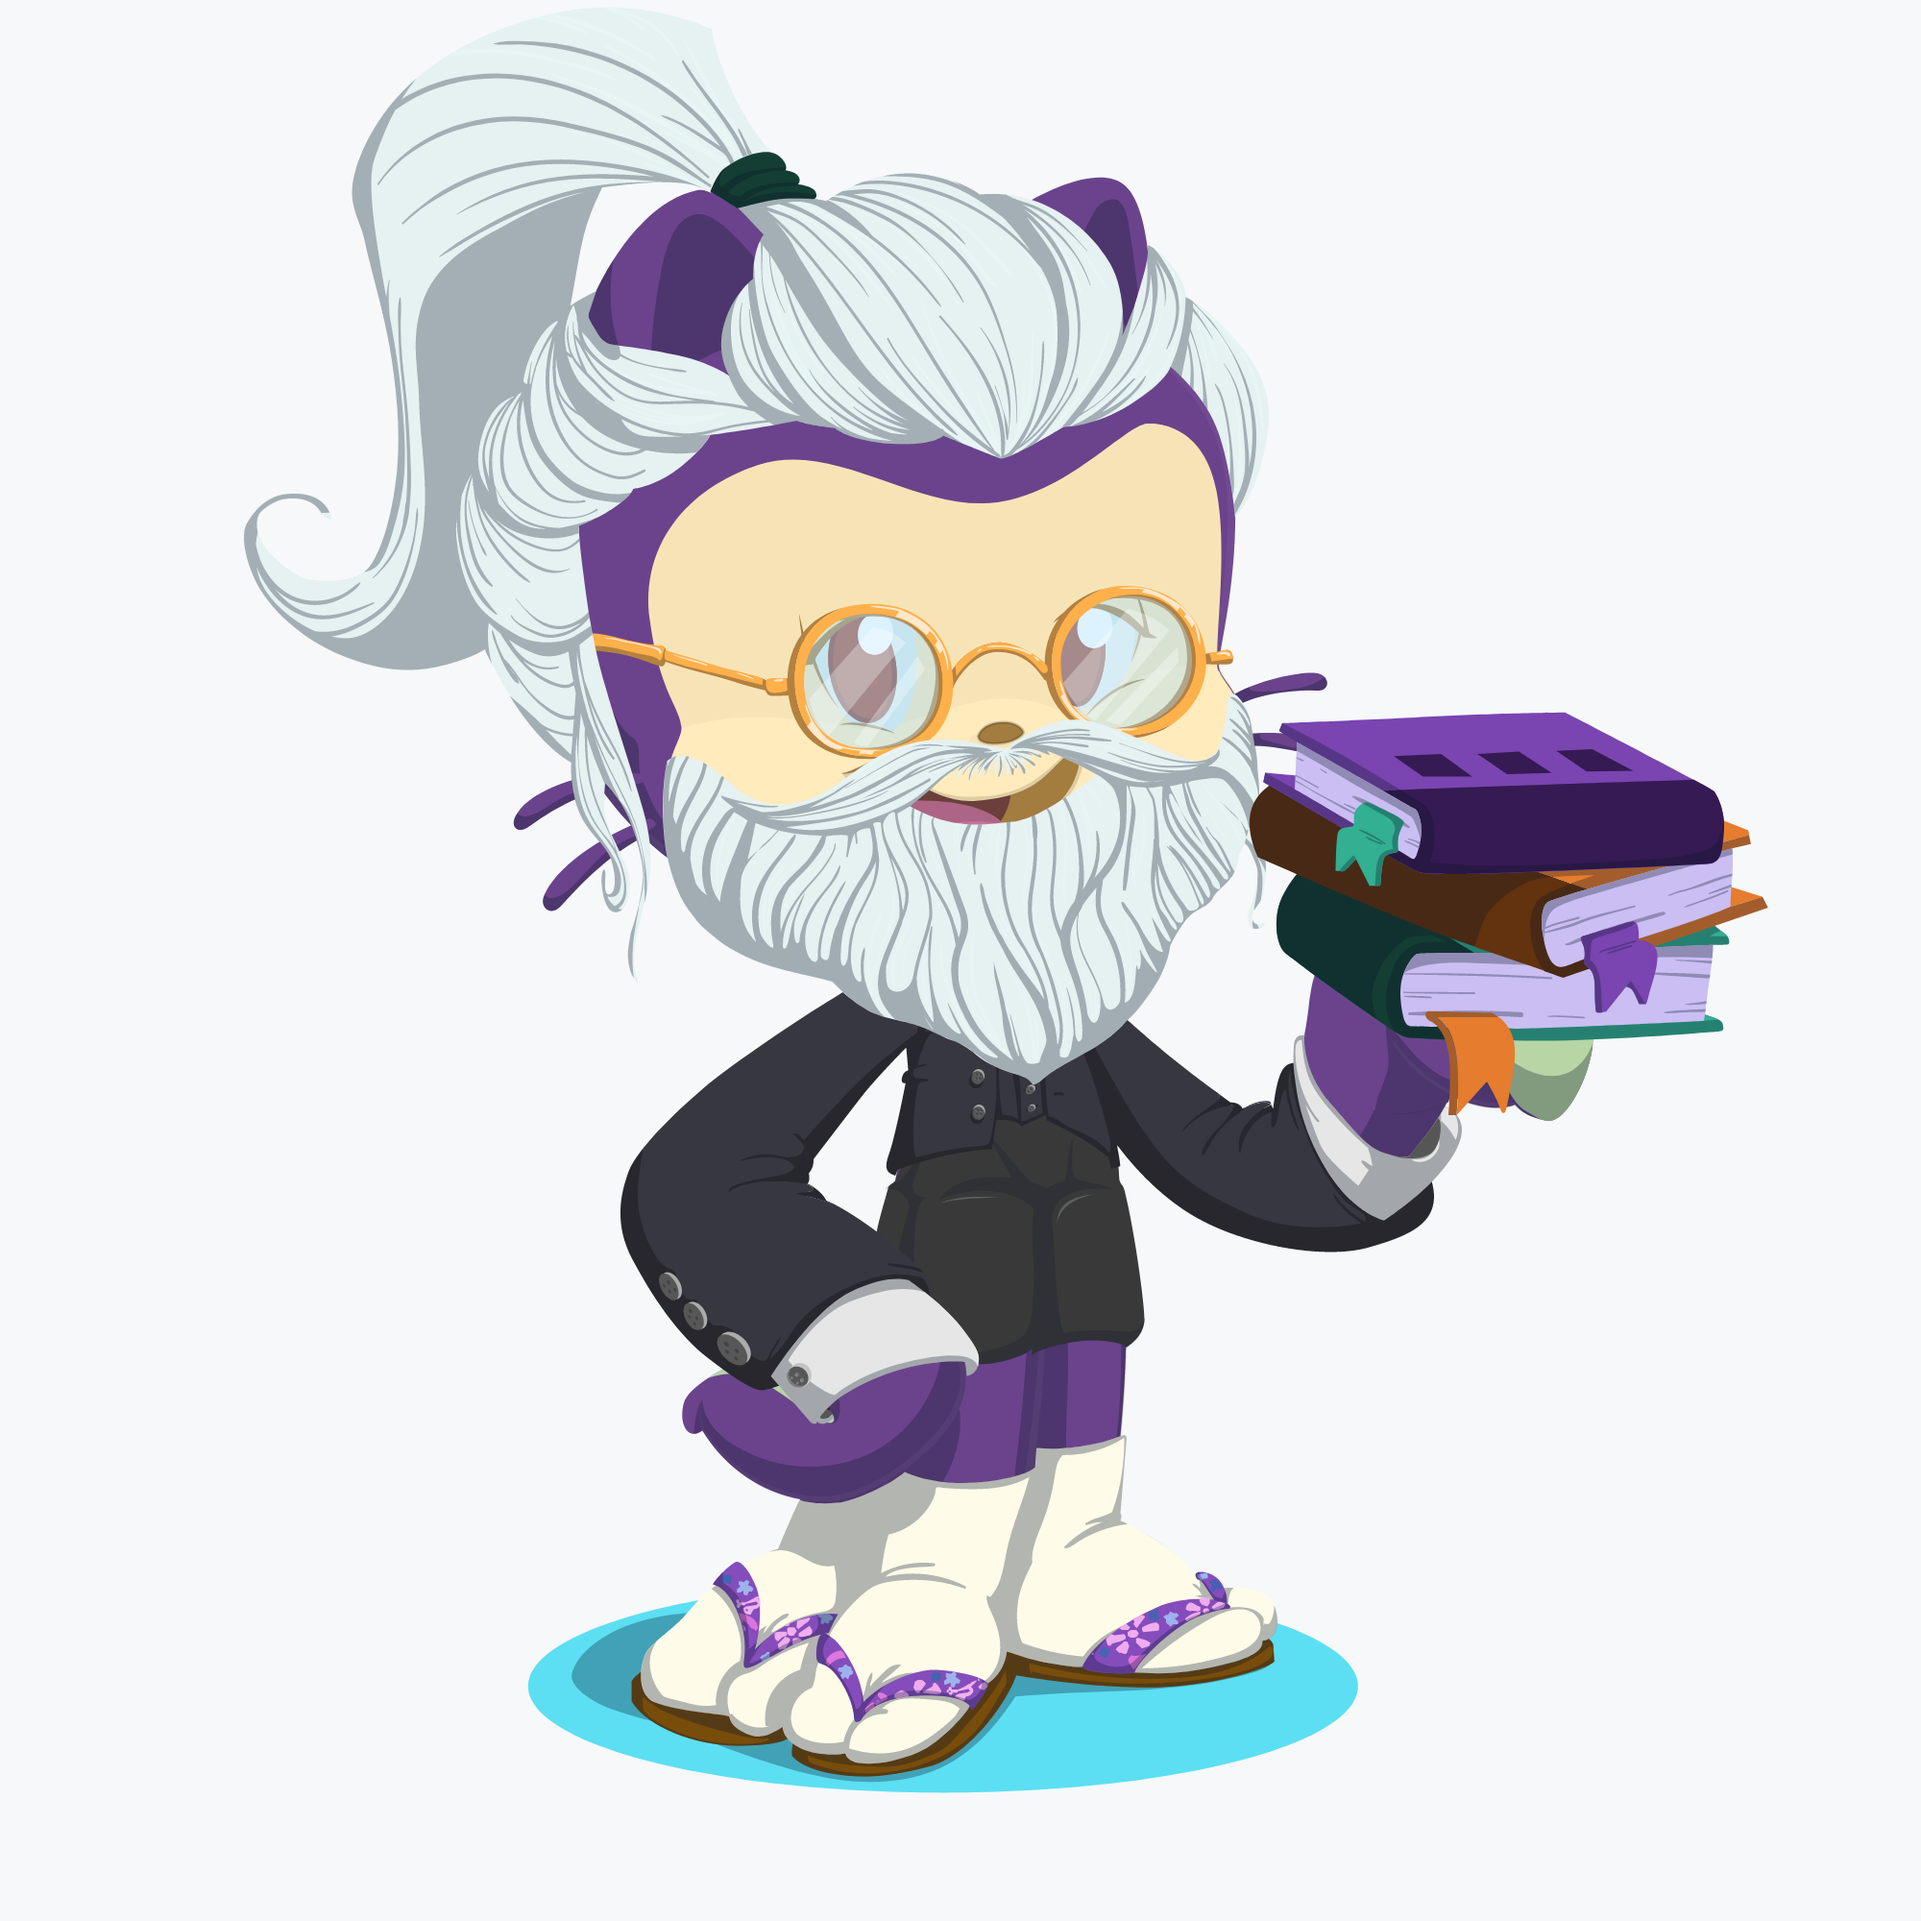
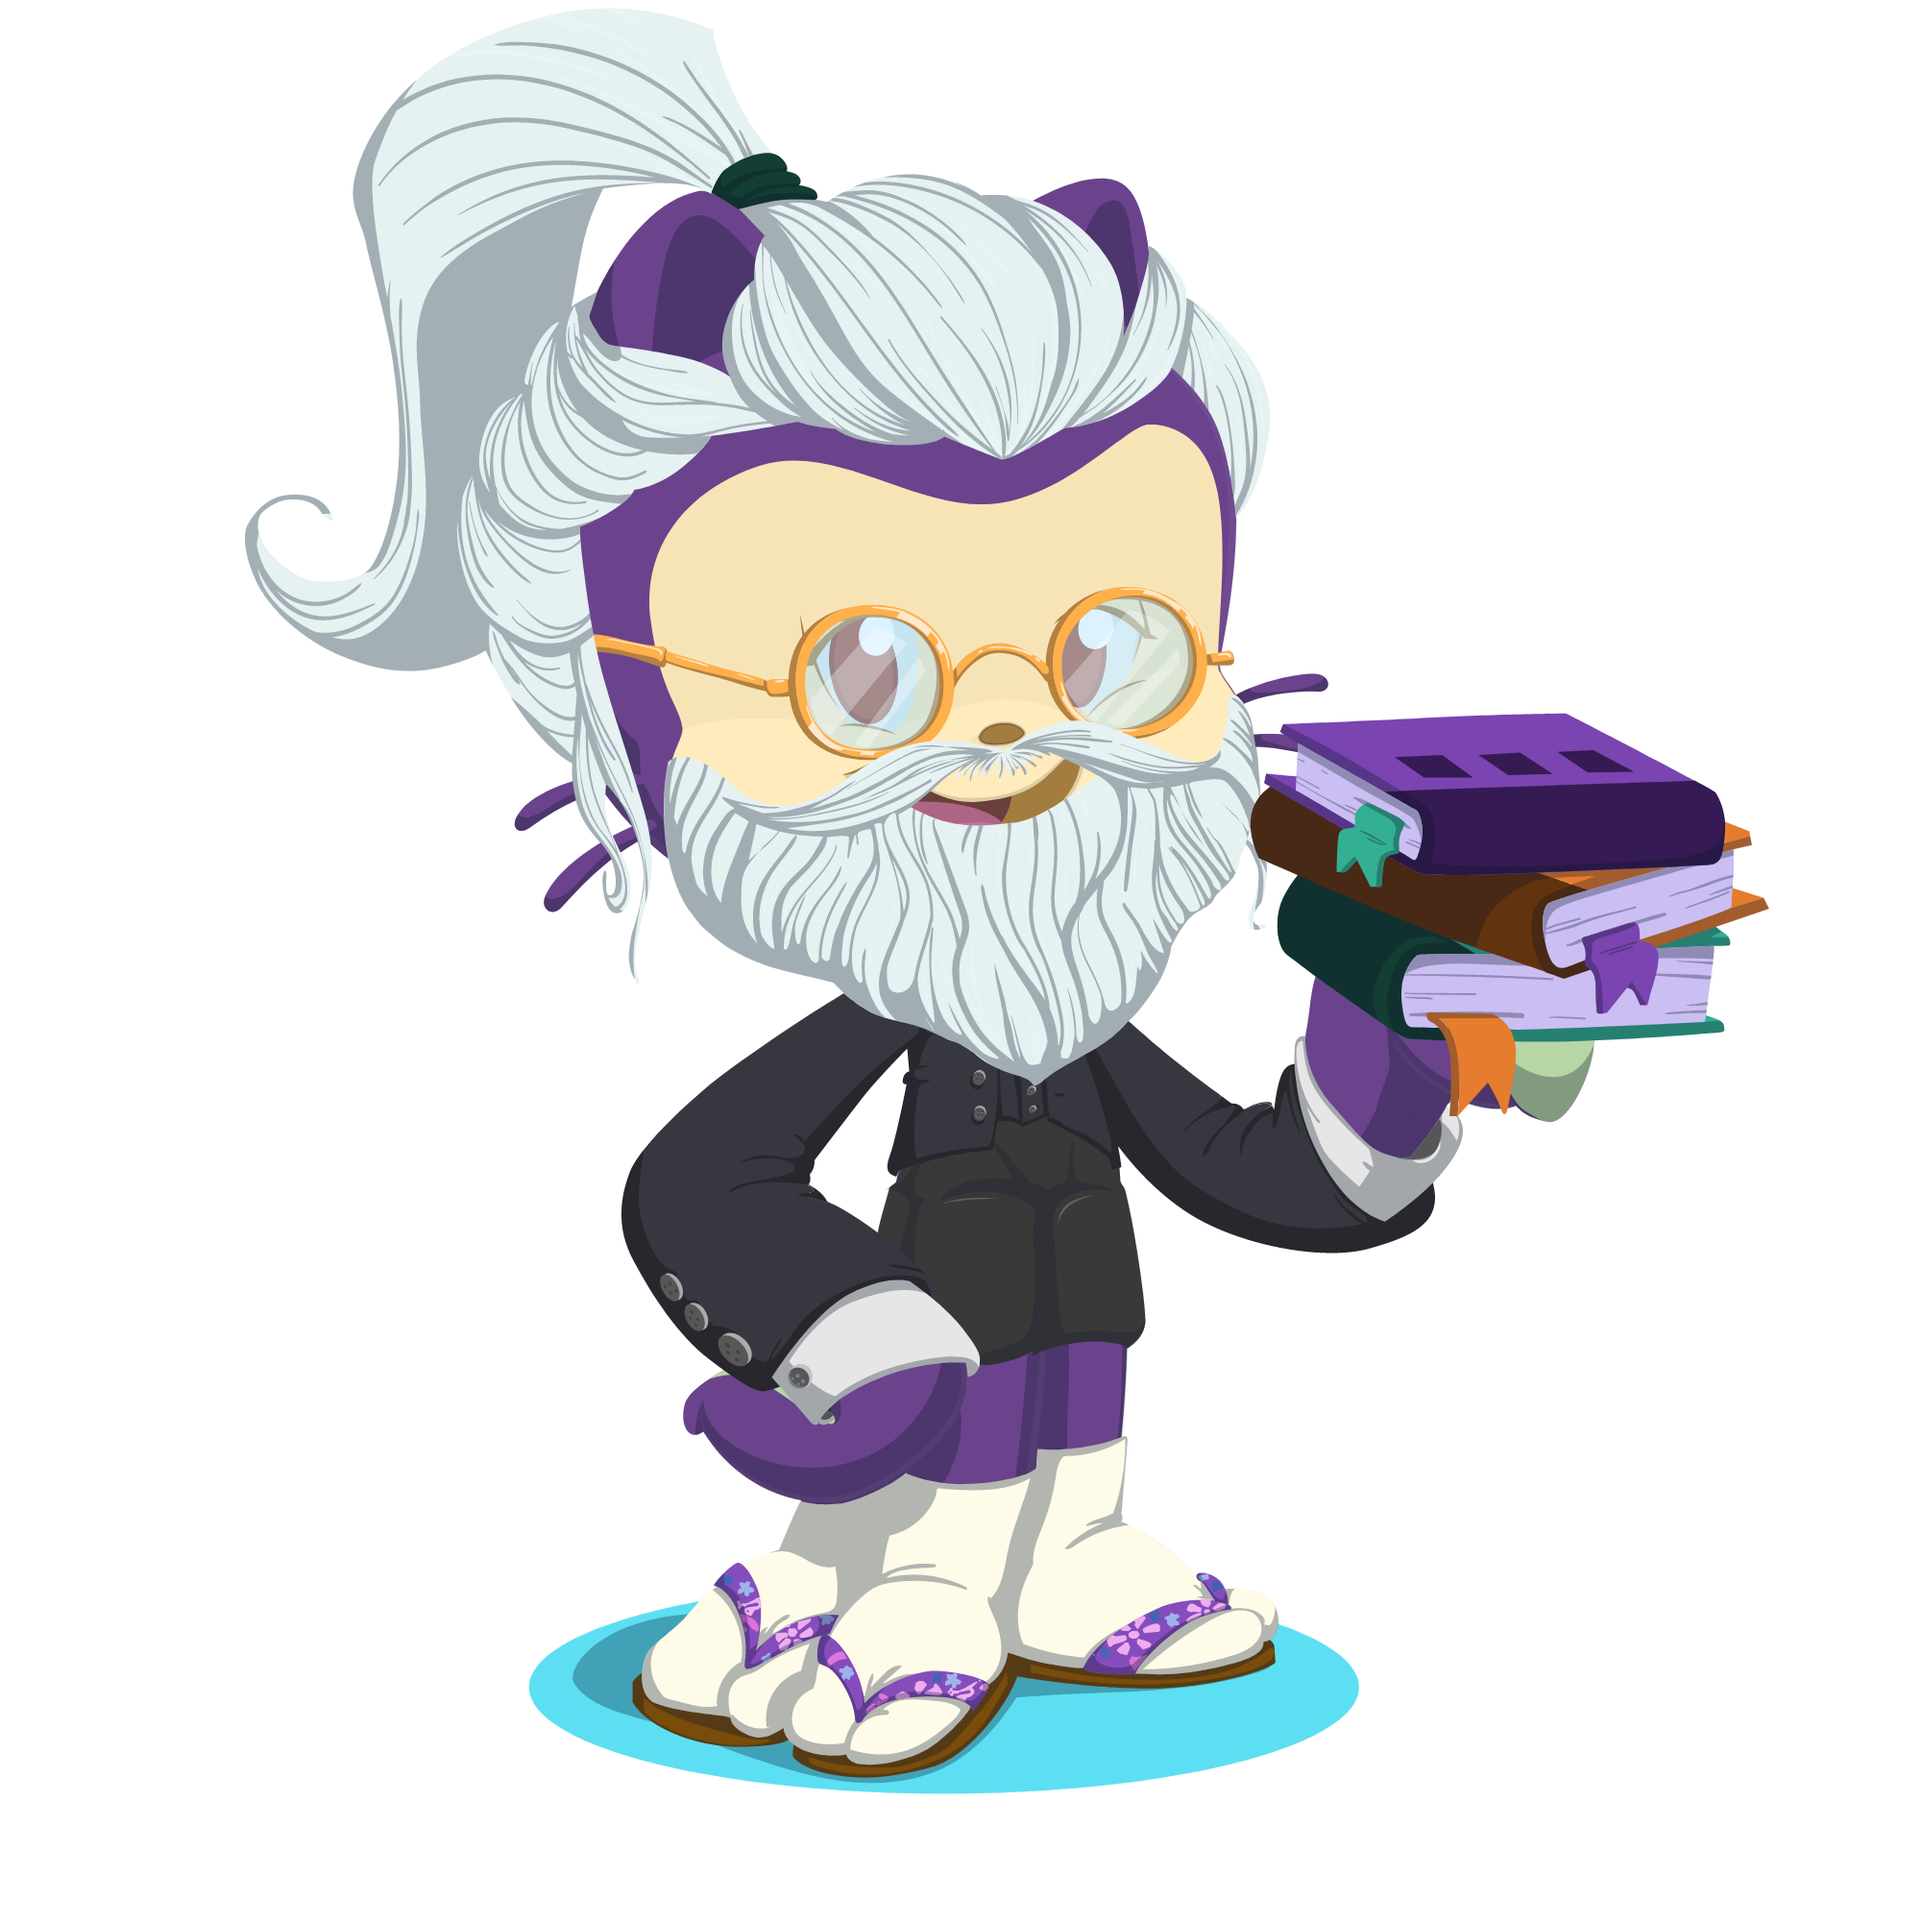
Css update.
Add Font Awesome icons.
Update hover color of links.
Update icons to change color/size on hover.
Update bullet's style.
Update profile pic.

diff --git a/index.html b/index.html
@@ -1,8 +1,10 @@
 <!DOCTYPE html>
 
 <head>
+    <meta name="viewport" content="width=device-width, initial-scale=1.0" />
     <link rel="stylesheet" href="https://fonts.googleapis.com/css?family=Sofia">
     <link rel="stylesheet" href="https://fonts.googleapis.com/css?family=Ubuntu">
+    <link rel="stylesheet" href="https://cdnjs.cloudflare.com/ajax/libs/font-awesome/4.7.0/css/font-awesome.min.css">
     <link rel="stylesheet" href="res/style.css">
 </head>
 
@@ -19,11 +21,12 @@
         </div>
 
         <div id="portfolio">
-            <a href="http://github.com/happy-san" class="github"><img src="res/img/github.png"></a>
+            <a href="http://github.com/happy-san" class="github iconLinks"><i class="fa fa-github"
+                    style="font-size:36px"></i></a>
             <a href="https://www.codingame.com/profile/dd672f5d563cc4f2298bb0a54ae494973658193" class="codingame"><img
-                    src="res/img/codingame.jpg"></a>
-            <a href="https://stackoverflow.com/users/11218270/happy-san?tab=profile" class="stackoverflow"><img
-                    src="res/img/stackoverflow.png"></a>
+                    src="res/img/codingame.png" width="36px" height="36px"></a>
+            <a href="https://stackoverflow.com/users/11218270/happy-san?tab=profile" class="stackoverflow iconLinks"><i
+                    class="fa fa-stack-overflow" style="font-size:36px"></i></a>
         </div>
     </div>
 
@@ -87,7 +90,8 @@
 
         <h2 class="topic">-----Projects-----</h2>
         <div id="project">
-            <h3 class="projectName"><a href="https://github.com/happy-san/shoppingApp">Shopping App</a></h3>
+            <h3 class="projectName"><a href="https://github.com/happy-san/shoppingApp" class="textLinks">Shopping
+                    App</a></h3>
             <h5 class="timeline">August 2020 – Present</h5>
 
             <p class="projectDescription">A generic shopping app to learn fundamentals of Flutter.</p>
@@ -105,7 +109,8 @@
 
 
         <div id="project">
-            <h3 class="projectName"><a href="https://github.com/happy-san/chattingApp">Chatting App</a></h3>
+            <h3 class="projectName"><a href="https://github.com/happy-san/chattingApp" class="textLinks">Chatting
+                    App</a></h3>
             <h5 class="timeline">August 2020 – Present</h5>
 
             <p class="projectDescription">A generic chatting app to learn fundamentals of Firebase and it's integration

diff --git a/res/style.css b/res/style.css
@@ -4,14 +4,22 @@ body{
     display: flex;
 }
 
+ul {
+    list-style: none;
+}
+
 li{
     font-family: Ubuntu, sans-serif;
     padding: 0.5% 0%;
 }
 
-ul li::before{
+ul li::before {
+    content: "\2765";
     color: #093426;
-}
+    font-weight: bolder;
+    margin-left: -1.5em;
+    padding: 0% 1%;
+  }
 
 a{
     color: inherit;
@@ -33,8 +41,14 @@ body .right{
 
 #address{
     text-align: center;
-    line-height: 1.5;
+    line-height: 0.1;
     font-weight: bolder;
+}
+
+#portfolio{
+    display: flex;
+    flex-wrap: wrap;
+    margin-top: 20%;
 }
 
 #aboutMe{
@@ -45,27 +59,28 @@ body .right{
     padding: 0% 2%;
 }
 
-#portfolio{
-    display: flex;
-    flex-wrap: wrap;
-    margin-top: 20%;
-    padding-left: 3%;
-}
-
-#portfolio img{
-    width: 32px;
-    height: 32px;
-}
-
 #portfolio .github, .codingame, .stackoverflow{
     flex: 30%;
 }
 
+#portfolio .codingame img:hover{
+    width: 34px;
+    height: 34px;
+}
+
+ a.textLinks:hover{
+    color: #79BEA8;
+}
+
+ a.iconLinks:hover{
+    color: #0000008a;
+}
+
 .profilePic{
-    height: 200px;
-    width: 200px;
-    border-radius: 50px;
-    padding: 3%;
+    height: 25%;
+    width: 100%;
+    max-width: 100%;
+    padding: 3% 0%;
 }
 
 .name{
